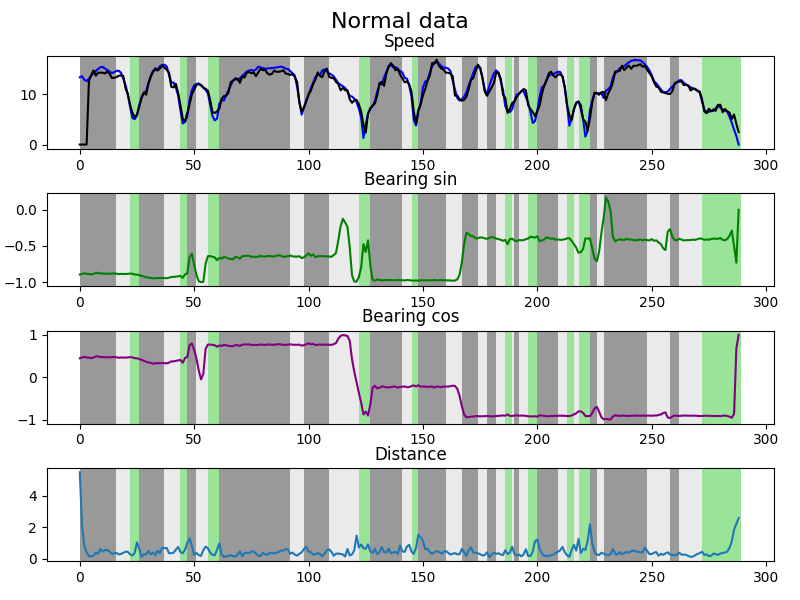
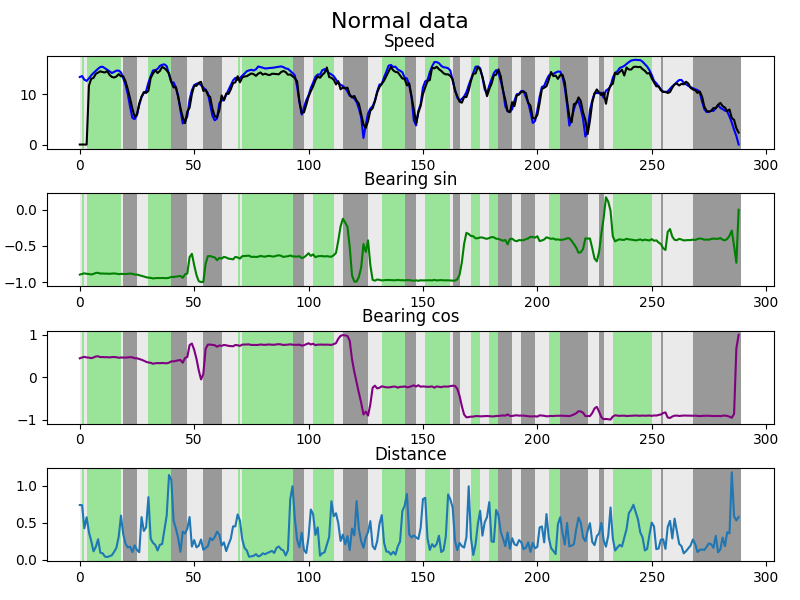
imgs

diff --git a/Utils.py b/Utils.py
@@ -50,15 +50,15 @@ def plotCsv(data, title, pred=None, labels=None, dist=None, accident_indexs=None
             linewidth=2,
             alpha=0.8,
         )
-        ax[3].vlines(
-            accident_indexs,
-            ymin=np.min(dist),
-            ymax=np.max(dist),
-            color="r",
-            linestyles=["dashed"],
-            linewidth=2,
-            alpha=0.8,
-        )
+        # ax[3].vlines(
+        #     accident_indexs,
+        #     ymin=np.min(dist),
+        #     ymax=np.max(dist),
+        #     color="r",
+        #     linestyles=["dashed"],
+        #     linewidth=2,
+        #     alpha=0.8,
+        # )
 
 
 def plotGT(normal_data, emg_data, title, normal_accident, emg_accident):

diff --git a/README.md b/README.md
@@ -54,7 +54,7 @@ Unsupervised and supervised methods were compared to the handmade approach. The 
 
 This model was then used to cluster the data and to initialize the weights of the supervised model.
 
-The KMeans method (n=3) tries to split the extracted features into stable high speed (green), acceleration (white), and deceleration (gray).
+The KMeans method (n=3) tries to split the extracted features into top transition (green), acceleration (white), and deceleration (gray).
 
 For the supervised approach, it was used binary cross entropy with weights 1,6 for the non-accidents and accidents, respectively. Only the first 550 steps of the emergency data was used.
 
